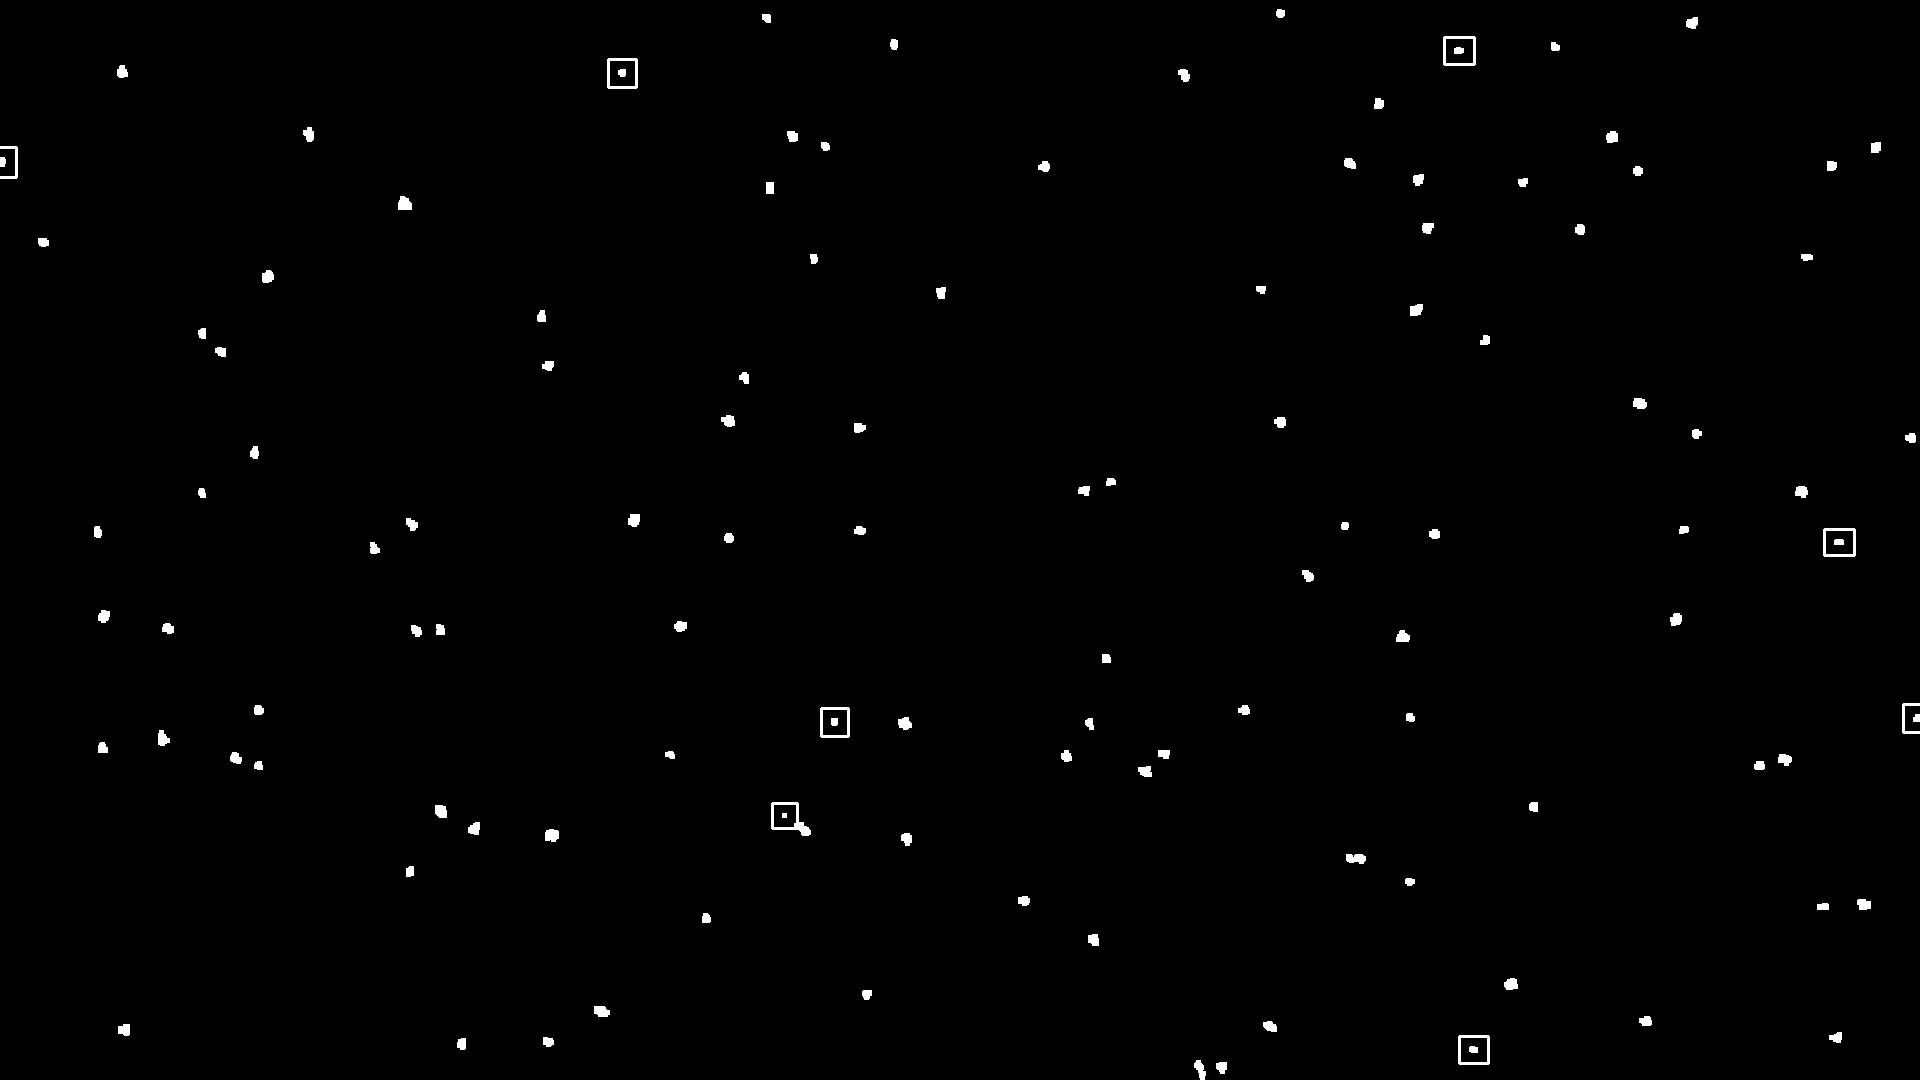
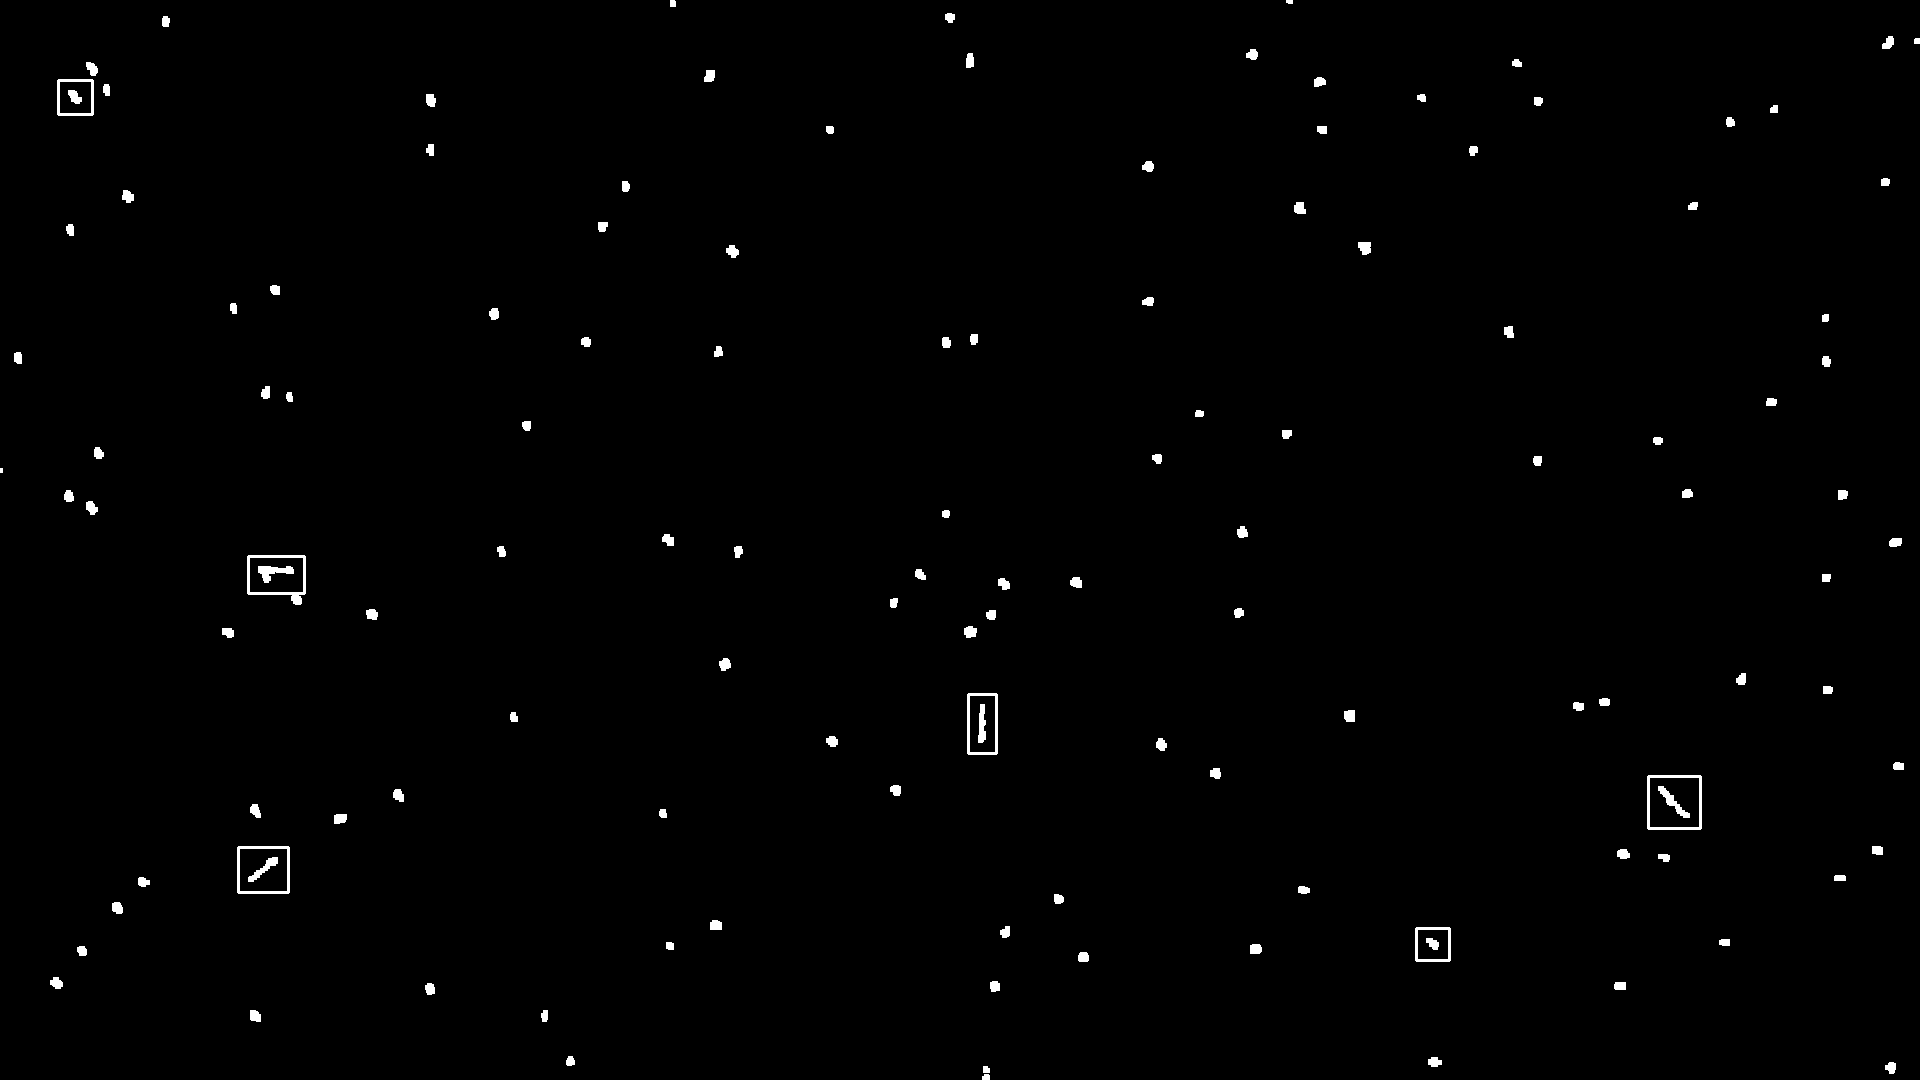
k-fold

diff --git a/features.py b/features.py
@@ -5,8 +5,12 @@ import cv2
 import numpy as np
 import pickle
 
+from sklearn.mixture import GaussianMixture
+
 num_frames = 10
 fpath = "AMOS2019-master/assets/data/complex-fg.mp4"
+fname = 'complex-fg.mp4'
+classifier_type = 'gmm'
 
 # Helper function to create a fused frame
 # Combines frames from index in back n_frames
@@ -26,6 +30,14 @@ def avgContoursArea(contours):
 def drawBoundingBoxes(contours, c_frame, features, w_vid, video_writer):
     # Compute mean features
     # mean_area = avgContoursArea(contours)
+
+    classifier = None
+
+    if classifier_type == 'gmm':
+        with open('./pickle/gmm_complex_fg.pkl', 'rb') as f:
+                classifier = pickle.load(f)
+        
+
     m_features = np.zeros((4,2))
 
     # Compute means
@@ -51,7 +63,7 @@ def drawBoundingBoxes(contours, c_frame, features, w_vid, video_writer):
     i = 0
     for c in contours:
         (x,y,w,h) = cv2.boundingRect(c)
-        if classify(m_features, features[i], 1):
+        if classify(m_features, features[i], classifier):
             cv2.rectangle(c_frame, (x-10,y-10), (x+10+w, y+10+h), (255, 0, 0), 2)
         i += 1
 
@@ -67,9 +79,9 @@ def drawBoundingBoxes(contours, c_frame, features, w_vid, video_writer):
 # Returns 1 if far enough away, 0 if not
 # Third parameter is classification type
 
-def classify(m_features, feature, class_mode):
+def classify(m_features, feature, classifier):
     # Square error with fixed margin
-    if class_mode == 0:
+    if classifier_type == 'naive':
         # Thresh
         # TODO: Tune this
         # This thresh works for simple_bg, fails during vibration/movement though\
@@ -89,12 +101,11 @@ def classify(m_features, feature, class_mode):
             return True
 
     # Gaussian probability, use mean and variance too
-    elif class_mode == 1:
-        with open('./pickle/gmm_complex_fg.pkl', 'rb') as f:
-            gmm = pickle.load(f)
+    elif classifier_type == 'gmm':
+        
         _feature = np.array(feature)
-        pred = gmm.predict(_feature.reshape(1, -1))
-        return 1-pred
+        pred = classifier.predict(_feature.reshape(1, -1))
+        return pred
 
 
 def extract(contours):
@@ -114,6 +125,22 @@ def extract(contours):
 
         features.append([area, perimeter, circularity, min_cir_area])
     return features
+
+def kFold(k):
+    if classifier_type == 'gmm':
+        classifier = GaussianMixture(n_components=2, max_iter=10000, covariance_type='full')
+        features = None
+        if(fname == 'complex-fg.mp4'):
+            with open('./pickle/complex_fg_features.pkl', 'rb') as f:
+                features = pickle.load(f)
+        N = len(features)
+        idxs = np.arange(N)
+        np.random.shuffle(idxs)
+        B = N // k
+        for i in range(k):
+            test_slice, remainder = np.split(features.copy(), B, axis=0)
+            classifier.fit(remainder)
+            y_hat = classifier.predict(test_slice)
 
 
 def main():
@@ -170,9 +197,6 @@ def main():
             # Classify and draw boxes around identified outliers
             drawBoundingBoxes(contours, c_frame, features, write_video, vw)
 
-        # print(len(features))
-        # print(len(bboxes))
-        # drawBBox(contours, c_frame)
         # Freeze until any key pressed. Quit on pressing q
         if cv2.waitKey(1) & 0xFF == ord('q'):
             break
